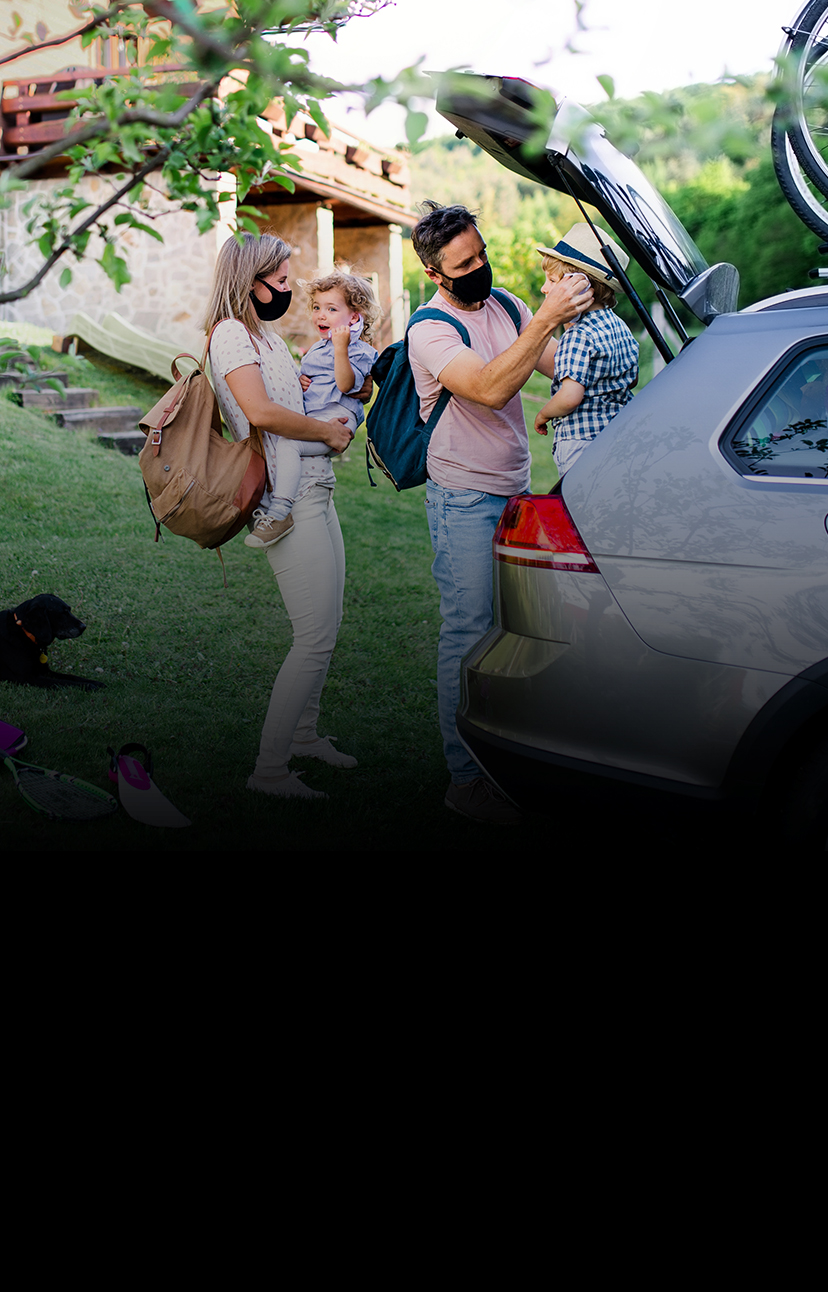
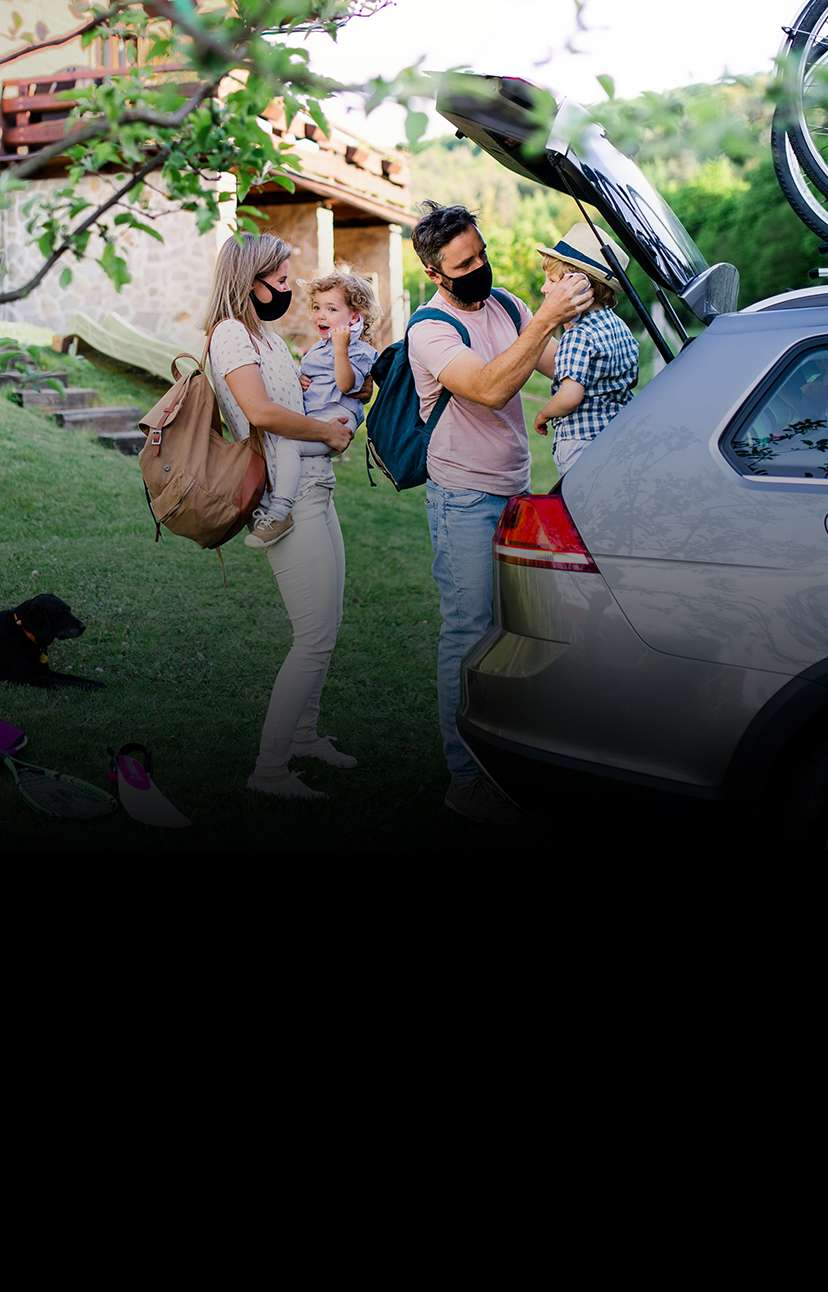
Compresión de img, cambio de extensión

diff --git a/components/Jumbotron/jumbotron.module.scss b/components/Jumbotron/jumbotron.module.scss
@@ -1,5 +1,5 @@
 .jumbotron__container {
-  background-image: url("/images/header.png");
+  background-image: url("/images/header.jpg");
   background-size: cover;
   background-repeat: no-repeat;
   height: 460px;
